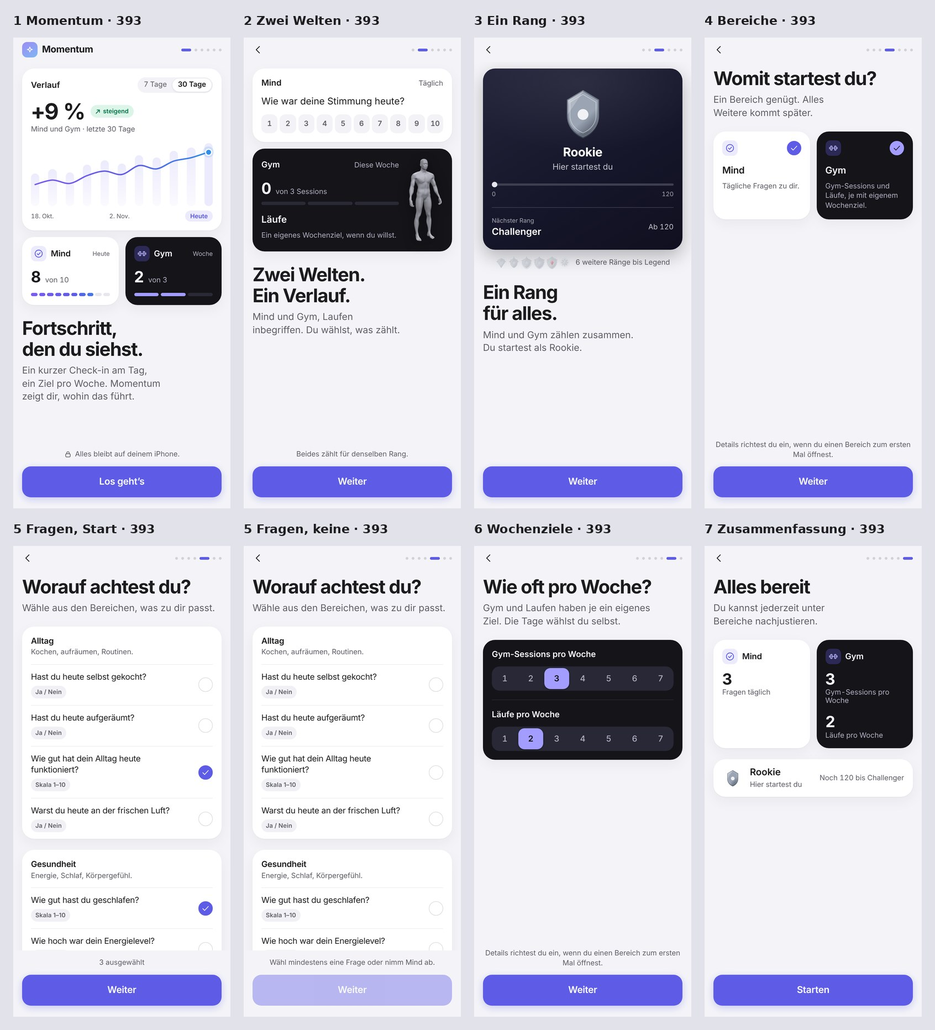
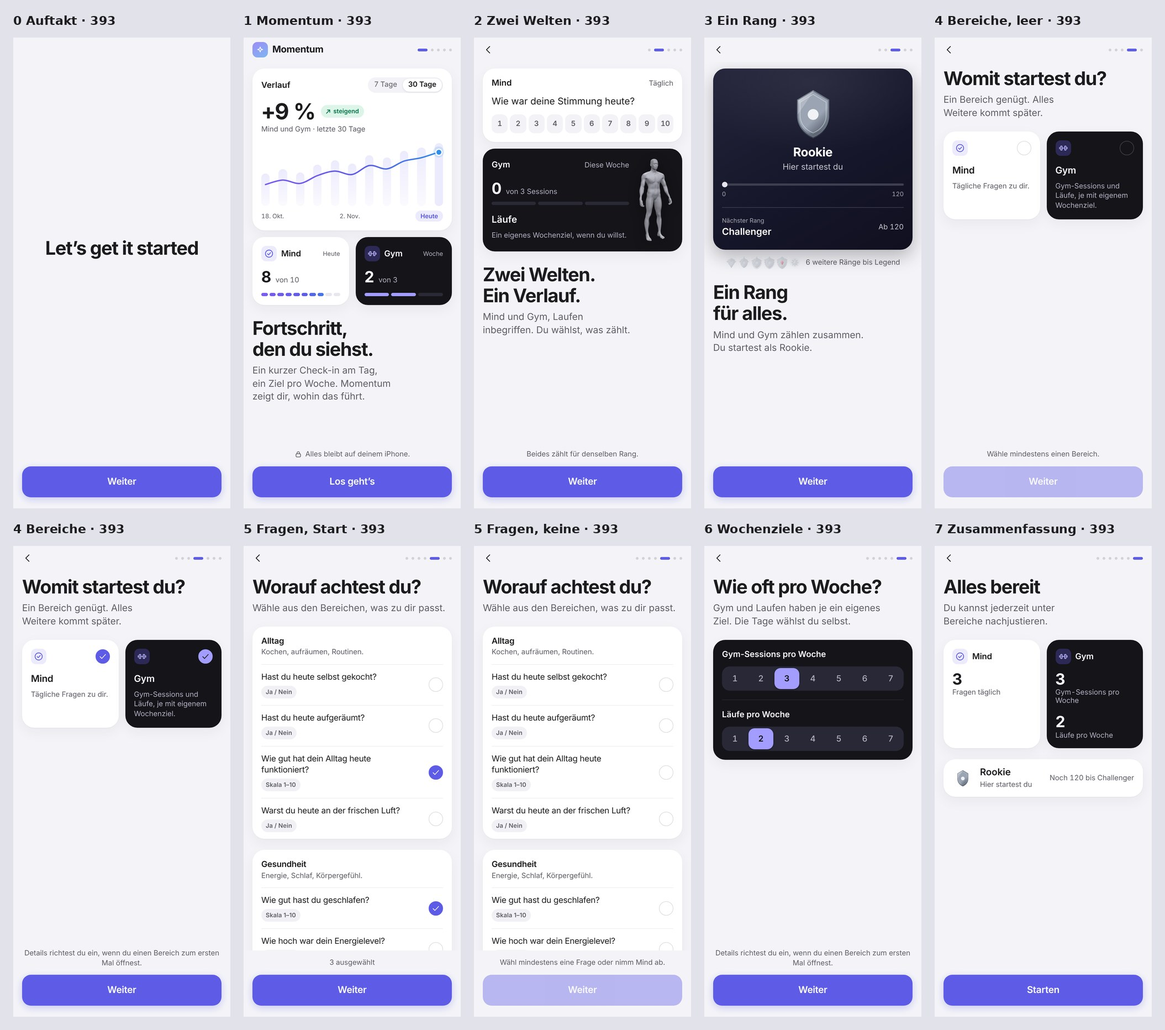
D192: STOP 7E-b accepted - the opening page and the empty areas in the records, the owner's iPhone measurements for block 9, the pictures
Claude-Session: https://claude.ai/code/session_01DdLuA7BvNfz9LeqrqZhkGQ

diff --git a/HANDOVER.md b/HANDOVER.md
@@ -2,7 +2,7 @@
 
 Current state, status and next work. Durable rules are in
 [`CLAUDE.md`](CLAUDE.md); the reasoning behind individual choices is in
-[`docs/decisions.md`](docs/decisions.md) (D1–D191). This file does not repeat
+[`docs/decisions.md`](docs/decisions.md) (D1–D192). This file does not repeat
 either — it says where things stand.
 
 ## Repository state
@@ -11,7 +11,7 @@ either — it says where things stand.
 |---|---|
 | Branch | `claude/momentum-pwa-spec-j82dhm` — the default branch, which is the only one Pages deploys from. Pass 2, the domain terminal and the muscle map were developed on `claude/momentum-pass-2-geometry-r2qzkd`; the muscle-map release candidate `bc57ec6` was merged here with a merge commit (`90bf328`) because the default branch carried a later upload. The release is tagged **`muscle-map-v1`** |
 | Overall-rank update | On `claude/momentum-overall-rank-update-v2`. **Stage 1** (D123): one `--status-*` palette in `tokens.css`, both scales on four bands, muscle-map states on the same colours. **Stage 2** (D124, D125): the Boss is the only rank — domain ranks, badges, promotion messages, peak ranks and per-domain XP are gone from the engine and the screens; abstinence decay measures in an internal held tier; the rating engine's outputs are frozen in `.github/fixtures/stage2/` and replay byte-identical. **Stage 3**: Tombstones verified dormant and pinned by `tombstones.test.ts`; no production change. **Stage 4** (D126): a Boss promotion is confirmed over seven eligible past days; the era boundary is `settings.promotionConfirmation.from` — set at settings creation for a new install (today, Rookie opening) and by the ensure step for a legacy record (the day after activation), never moved; the pending dates are persisted and reconciled from every replay; the activation continuity fixture is `.github/fixtures/stage4/activation.json`. **Stage 5**: verification pass; the distance caption reads "Schwelle erreicht" while a rank waits to be confirmed; indicator states pinned on the real screens by `scripts/verify/stage4-shots.mjs` with screenshots under `docs/design/overall-rank/`. Release audit in the Stage 5 report. **Not merged, not deployed** |
-| WP3 (Mind & Gym) | On `claude/momentum-wp3`, branched from `e30becd`, staged. **Stage 0**: the golden replay baseline `.github/fixtures/wp3-golden/` (six files, compared exactly by `domainOutputs.test.ts`). **Stage 1**: bug fixes B1–B6 and B9–B12 with no scoring change — every fingerprint and golden file byte-identical to Stage 0; D127 recorded. **Stage 2**: the workout flow — free workouts as drafts (B7, D128), removal with undo (B8, D131), the running workout on Heute and `finishedAt` (D129), kg \| lb (D130); no scoring change, every fingerprint and golden file byte-identical. **Stage 3a**: the edit-window gate (`docs/design/wp3/stage3a-window.md`). **Stage 3b**: one day back (P8) as an era — one write rule for today and yesterday, a week judged when it is over, abstinence carried while it can be written, D126 on settled days, Heute \| Gestern (D132–D138); every pre-P8 value byte-identical, the P8 golden files re-frozen deliberately. **Stage 4**: Mind and Gym — Food off as an era from the first load (D139), its data kept and nothing creating it (D140), the update day's yesterday (D141), the check-in delete refusing a Gym session (D142), one name, Mind, and the terminal Mind \| Gym (D143), Gestern's wording for the standard questions (D144); every value before the switch-off byte-identical, the Food-off golden files unchanged. **Stage 6a**: the visual system (P11) as two design variants — two token sets, Mind light and Gym dark, declared by the screen and carried on `<html>` (D145); glass cards and sheets with solid fallbacks, nothing blurred over the 3D canvas (D146); text over glass measured on the rendered pixels (D147); the owner chose variant B at STOP 6a (D148). **Stage 6b**: B is the one design system and the visual contract `docs/wp3/vertrag.md` (D160) is applied to every existing screen — colour with three jobs, the type and figure steps, one 16px margin, one order of buttons, the chart rules, layers and motion as tokens, calm loading surfaces — with its rules held by tests (`designRules.test.ts`, `contrast.test.ts`, `design-system.mjs`); nothing computed moved, `src/core/`, `src/storage/`, every fingerprint and golden file untouched (D162). **The colour rules of the muscle status** (contract §7, D164) and **block 7A** — the body is a new model, built by script from MakeHuman's base mesh, with straight cuts round an inert zone that has a tone of its own, and a light that is tokens without a tone mapping (D165, D166) — are built and **accepted by the owner on his iPhone on 2026-11-13**, from the `Momentum-preview` build `0414126`. **His addendum to that acceptance** (D167) — the weakest tint 0.3, the chest's lower edge level, the borders at the knee, the collarbone and the shoulder as lines the build cuts — is built, published as `Momentum-preview` `c80b61d` and **accepted by the owner on his iPhone on 2026-11-15**, the straight edge of the shoulder included; the elbow and the deltoid's lower edge stay as they are. **Stage 5b** (D150, D151, D172–D174): from the first load a Gym exercise-day is worth its best working set by a strength score, as an era marked by `scoring.gymMetric`; a window compares the median of an exercise's last days with the median of its first, behind a switch the owner confirms; a set can be marked as a warm-up by hand; every day before the boundary replays byte-identically, no golden file frozen again, sixteen new ones for two new profiles — **accepted by the owner on his iPhone on 2026-11-15** from the `Momentum-preview` build `7e0572f` (D175): the median stands, the exercise detail draws a line where it drew bars, and a hint under the sets says where the warm-up mark is until a set has been marked once. **Block "Kurve"** (D177–D179): in the Stage 5b era the performance curve's one value is Gym's own — every three points of improvement multiply the odds by four, where the constants say ten — carried in `scoring.gymMetric.curveDecadePercent` beside the metric and read from each day's snapshot; a marker without it, which only a Stage 5b preview wrote, is the curve as it was; no day before the boundary and no day of Running moved; and a tint on the body is full from 8 % where it was 12 %. **Accepted by the owner on his iPhone on 2026-11-15** from the `Momentum-preview` build `28e8ca0` (D180), with his four answers built in the same session: the value three stands (`GYM_CURVE_CONFIRMED` is `true`), the tint stays full from 8 %, the rows and the exercise detail are drawn on a scale of 8 % where it was 12 %, and the held band is one-sided — −2 to +1 % held, a rise from +2 %, a fall from −3 % — with the legend saying why; published as `Momentum-preview` `ae10d3d`. **Block 7B** (D181–D183): Muskelgruppen is the body's stage — no card, 55 % of the visible height, a metrics strip above it — operated by time and by rule: a tap never turns the body and reaches a group from twelve pixels beside it, two fingers zoom to 1.8, a double tap and a button reset, a sheet stands over a still body, a lost context ends with the body or the flat figure, and Heute's Gym label leads straight to it; with a measuring display the owner switches on in the settings. **Accepted by the owner on his iPhone on 2026-11-16** from the `Momentum-preview` build `275cfbc` (D184), without findings and with his five answers, each as built: the measuring display stays in the release, the strip's third cell prints the change with the group beneath, "Stärkster" says "–" where no group improved, a drag up or down on the body scrolls the page, and the 55 % are the stage. His three copies of the measuring display are the first measured values from an iPhone (15 Pro, iOS 26.3.1): 193 ms from opening Muskelgruppen to the first picture out of the cache, sixty frames a second while turning with every one of 154 measured frames under 25 ms, twelve draw calls, 50,488 triangles. **Block 7C** (D185, D186): a tap on a muscle or on a row opens the group's sheet — two heights and a finger, a Back that closes it without a place in the address, the body above it showing the group and nothing drawn under it — with the group's line, its exercises each with one change (D176) and the work volume per week, shown and never scored (D152); the card on the hub holds its place while it loads (D168) and all lines of the ten rows stand in one column (D169). **Accepted by the owner on his iPhone on 2026-11-16** from the `Momentum-preview` build `387bfc9` (D187), except the Dips: their line ended green under the zero line beside "+5 %". With his answers and his correction, built in the same session and published as `Momentum-preview` `7f859f3`: every line begins on the baseline of its first day (D170), an exercise states one change (D176), and **an exercise's line is that change day by day** — each point the change in the range up to its day — so it ends on the figure; Back for every sheet goes to the tidy-up, on the condition that a sheet with fields loses nothing typed. From STOP 7C the session runs on another model than D159 names, at his instruction (D187). **Block 7D** (D188): the catalogue holds 134 exercises where it held 49 — the last, the Bayesian cable curl, added at his request after the STOP — at least ten for every group by its primary role, every entry with its equipment and its movement — and the picker searches all of it, in the workout and in the plan editor, by name, detail, group with everyday words, movement and equipment; the 49 entries, every stored record and everything that computes or stores unchanged. **Accepted by the owner on 2026-11-17** (D189), with his answers each as built and Preacher-Curls also found as «Bizepsmaschine» and «Scott-Curls»; published as `Momentum-preview` `4063e82`. **7E runs in a session of its own** on `claude/hopeful-carson-4utktp`, from `adf1ead`, and is merged into this branch before block 9; then 9 and the tidy-up (D189). **Block 7E** (D190, D191), the onboarding's look in direction C, runs in a session of its own on `claude/hopeful-carson-4utktp`, from 7D's head `adf1ead` with `3e153fa` merged in: the owner's go and answers at STOP 7E-a2 built — the system font in place of DM Sans, three starter questions with «Weiter» held while Mind has none, the tests for every path, the flow replayable in the preview — and **waiting for him at STOP 7E-b**; merged into `claude/momentum-wp3` after his acceptance, before block 9. **Not merged, not deployed** |
+| WP3 (Mind & Gym) | On `claude/momentum-wp3`, branched from `e30becd`, staged. **Stage 0**: the golden replay baseline `.github/fixtures/wp3-golden/` (six files, compared exactly by `domainOutputs.test.ts`). **Stage 1**: bug fixes B1–B6 and B9–B12 with no scoring change — every fingerprint and golden file byte-identical to Stage 0; D127 recorded. **Stage 2**: the workout flow — free workouts as drafts (B7, D128), removal with undo (B8, D131), the running workout on Heute and `finishedAt` (D129), kg \| lb (D130); no scoring change, every fingerprint and golden file byte-identical. **Stage 3a**: the edit-window gate (`docs/design/wp3/stage3a-window.md`). **Stage 3b**: one day back (P8) as an era — one write rule for today and yesterday, a week judged when it is over, abstinence carried while it can be written, D126 on settled days, Heute \| Gestern (D132–D138); every pre-P8 value byte-identical, the P8 golden files re-frozen deliberately. **Stage 4**: Mind and Gym — Food off as an era from the first load (D139), its data kept and nothing creating it (D140), the update day's yesterday (D141), the check-in delete refusing a Gym session (D142), one name, Mind, and the terminal Mind \| Gym (D143), Gestern's wording for the standard questions (D144); every value before the switch-off byte-identical, the Food-off golden files unchanged. **Stage 6a**: the visual system (P11) as two design variants — two token sets, Mind light and Gym dark, declared by the screen and carried on `<html>` (D145); glass cards and sheets with solid fallbacks, nothing blurred over the 3D canvas (D146); text over glass measured on the rendered pixels (D147); the owner chose variant B at STOP 6a (D148). **Stage 6b**: B is the one design system and the visual contract `docs/wp3/vertrag.md` (D160) is applied to every existing screen — colour with three jobs, the type and figure steps, one 16px margin, one order of buttons, the chart rules, layers and motion as tokens, calm loading surfaces — with its rules held by tests (`designRules.test.ts`, `contrast.test.ts`, `design-system.mjs`); nothing computed moved, `src/core/`, `src/storage/`, every fingerprint and golden file untouched (D162). **The colour rules of the muscle status** (contract §7, D164) and **block 7A** — the body is a new model, built by script from MakeHuman's base mesh, with straight cuts round an inert zone that has a tone of its own, and a light that is tokens without a tone mapping (D165, D166) — are built and **accepted by the owner on his iPhone on 2026-11-13**, from the `Momentum-preview` build `0414126`. **His addendum to that acceptance** (D167) — the weakest tint 0.3, the chest's lower edge level, the borders at the knee, the collarbone and the shoulder as lines the build cuts — is built, published as `Momentum-preview` `c80b61d` and **accepted by the owner on his iPhone on 2026-11-15**, the straight edge of the shoulder included; the elbow and the deltoid's lower edge stay as they are. **Stage 5b** (D150, D151, D172–D174): from the first load a Gym exercise-day is worth its best working set by a strength score, as an era marked by `scoring.gymMetric`; a window compares the median of an exercise's last days with the median of its first, behind a switch the owner confirms; a set can be marked as a warm-up by hand; every day before the boundary replays byte-identically, no golden file frozen again, sixteen new ones for two new profiles — **accepted by the owner on his iPhone on 2026-11-15** from the `Momentum-preview` build `7e0572f` (D175): the median stands, the exercise detail draws a line where it drew bars, and a hint under the sets says where the warm-up mark is until a set has been marked once. **Block "Kurve"** (D177–D179): in the Stage 5b era the performance curve's one value is Gym's own — every three points of improvement multiply the odds by four, where the constants say ten — carried in `scoring.gymMetric.curveDecadePercent` beside the metric and read from each day's snapshot; a marker without it, which only a Stage 5b preview wrote, is the curve as it was; no day before the boundary and no day of Running moved; and a tint on the body is full from 8 % where it was 12 %. **Accepted by the owner on his iPhone on 2026-11-15** from the `Momentum-preview` build `28e8ca0` (D180), with his four answers built in the same session: the value three stands (`GYM_CURVE_CONFIRMED` is `true`), the tint stays full from 8 %, the rows and the exercise detail are drawn on a scale of 8 % where it was 12 %, and the held band is one-sided — −2 to +1 % held, a rise from +2 %, a fall from −3 % — with the legend saying why; published as `Momentum-preview` `ae10d3d`. **Block 7B** (D181–D183): Muskelgruppen is the body's stage — no card, 55 % of the visible height, a metrics strip above it — operated by time and by rule: a tap never turns the body and reaches a group from twelve pixels beside it, two fingers zoom to 1.8, a double tap and a button reset, a sheet stands over a still body, a lost context ends with the body or the flat figure, and Heute's Gym label leads straight to it; with a measuring display the owner switches on in the settings. **Accepted by the owner on his iPhone on 2026-11-16** from the `Momentum-preview` build `275cfbc` (D184), without findings and with his five answers, each as built: the measuring display stays in the release, the strip's third cell prints the change with the group beneath, "Stärkster" says "–" where no group improved, a drag up or down on the body scrolls the page, and the 55 % are the stage. His three copies of the measuring display are the first measured values from an iPhone (15 Pro, iOS 26.3.1): 193 ms from opening Muskelgruppen to the first picture out of the cache, sixty frames a second while turning with every one of 154 measured frames under 25 ms, twelve draw calls, 50,488 triangles. **Block 7C** (D185, D186): a tap on a muscle or on a row opens the group's sheet — two heights and a finger, a Back that closes it without a place in the address, the body above it showing the group and nothing drawn under it — with the group's line, its exercises each with one change (D176) and the work volume per week, shown and never scored (D152); the card on the hub holds its place while it loads (D168) and all lines of the ten rows stand in one column (D169). **Accepted by the owner on his iPhone on 2026-11-16** from the `Momentum-preview` build `387bfc9` (D187), except the Dips: their line ended green under the zero line beside "+5 %". With his answers and his correction, built in the same session and published as `Momentum-preview` `7f859f3`: every line begins on the baseline of its first day (D170), an exercise states one change (D176), and **an exercise's line is that change day by day** — each point the change in the range up to its day — so it ends on the figure; Back for every sheet goes to the tidy-up, on the condition that a sheet with fields loses nothing typed. From STOP 7C the session runs on another model than D159 names, at his instruction (D187). **Block 7D** (D188): the catalogue holds 134 exercises where it held 49 — the last, the Bayesian cable curl, added at his request after the STOP — at least ten for every group by its primary role, every entry with its equipment and its movement — and the picker searches all of it, in the workout and in the plan editor, by name, detail, group with everyday words, movement and equipment; the 49 entries, every stored record and everything that computes or stores unchanged. **Accepted by the owner on 2026-11-17** (D189), with his answers each as built and Preacher-Curls also found as «Bizepsmaschine» and «Scott-Curls»; published as `Momentum-preview` `4063e82`. **7E runs in a session of its own** on `claude/hopeful-carson-4utktp`, from `adf1ead`, and is merged into this branch before block 9; then 9 and the tidy-up (D189). **Block 7E** (D190–D192), the onboarding's look in direction C, ran in a session of its own on `claude/hopeful-carson-4utktp`: the flat ground and the first slide's picture of «C1», the system font (DM Sans came and went), three starter questions with «Weiter» held while Mind has none, an opening page «Let’s get it started», the areas opening empty, the tests for every path and the flow replayable in the preview. **Accepted by the owner on 2026-11-17** (D192) — the opening page and the empty areas without a STOP of their own, to be checked in the round of block 9 — and **merged into this branch**; published as `Momentum-preview` (see the block's section). **Not merged, not deployed** |
 | Muscle map | **Released.** The 3D body in Bereiche → Gym, the ten analytics rows with their mini sparklines, Laufen inside the Gym workspace, the credits entry. App source `5e554aa`; QA record `docs/design/muscle-map/INTEGRATION-QA.md`; handoff deviations `docs/design/muscle-map/HANDOFF-DEVIATIONS.md` |
 | Working tree | clean at the commit this file was committed in |
 | `SCHEMA_VERSION` | **5** (`src/core/model/index.ts`) — v5 adds the `foodDays` store |
@@ -1952,6 +1952,17 @@ the `Momentum-preview` build `275cfbc` — D181, D182, D183, D184)
   Verbesserung"; a drag that begins up or down on the body scrolls the
   page; and the 55 % are the stage, the body filling 84 % of it. The
   contract says each of them now (§4, §8, §13).
+- **The owner's measurements of 17 November 2026** (D192), the second
+  opening, from the build `index-B1RXpspr` (the preview `8a5df95`, block
+  7E): to the first picture **161 ms** — the code 2 ms and the model
+  124 ms, both already loaded, the first picture 35 ms; 12 draw calls,
+  50,488 triangles, one texture of 768 × 1024; pixel ratio 2 of 3,
+  drawing buffer 786 × 872, "Apple GPU"; iPhone 15 Pro, iOS 26.3.1 (the
+  browser says 18.7), the app from the home screen; screen 393 × 852,
+  visible 393 × 793, the stage 393 × 436 (55 %); about 63 frames a second
+  observed. Against block 7B's copies: 161 ms where 193 ms stood, the same
+  scene, the same stage. **For block 9** these and 7B's are the device's
+  baseline (`prompt-9-haertung.md`, section 3).
 - **The owner's measurements** — the first from an iPhone in this project,
   three copies of the measuring display from the build `index-DQBEJ-V9`
   (the preview `275cfbc`) on 2026-11-16. Device: **iPhone 15 Pro, iOS
@@ -2362,9 +2373,9 @@ is its change day by day** (branch `claude/momentum-wp3`, not merged; D187)
 
 **WP3 block 7E — the onboarding in direction C** (branch
 `claude/hopeful-carson-4utktp`, from block 7D's head `adf1ead`, with
-`claude/momentum-wp3` at `3e153fa` merged in; not yet merged back; **the
-owner's answers at STOP 7E-a2 are built and wait for him at STOP 7E-b** —
-D190, D191, `docs/wp3/stage7e/README.md`)
+`claude/momentum-wp3` at `3e153fa` merged in; **the
+owner accepted it at STOP 7E-b on 2026-11-17, and it is merged into
+`claude/momentum-wp3`** — D190–D192, `docs/wp3/stage7e/README.md`)
 - **What changed.** How the seven steps look: a flat ground, solid white
   cards, the app's system font (DM Sans came and went, D191), and at most
   one dark surface a screen — Gym or the rank. The first slide is the
@@ -2391,7 +2402,11 @@ D190, D191, `docs/wp3/stage7e/README.md`)
   file. A step shows only what the flow holds: Laufen opens without a
   target and says so, and the summary has a Mind tile only with a
   question.
-- **Tests**: `OnboardingFlow.test.tsx` walks every path (22 tests);
+- **After the acceptance** (D192): an opening page before the first slide —
+  «Let’s get it started» and «Weiter», no step and no marks — and the areas
+  open with nothing chosen, «Weiter» waiting for a world. No STOP of their
+  own: the owner checks them in the round of block 9.
+- **Tests**: `OnboardingFlow.test.tsx` walks every path (27 tests);
   `onboarding-7e.mjs` walks four paths at four widths in the real build,
   reads back what each stored, holds every step to the screen, 44px
   targets, one dark surface and the chart's fit, and proves the rehearsal
@@ -2895,11 +2910,12 @@ Re-run browser suites with `scripts/verify/*.mjs` (see that README; needs
 
 ## Next work
 
-**WP3 block 7E waits for the owner at STOP 7E-b** (D191), on
-`claude/hopeful-carson-4utktp`: he checks the onboarding on the preview —
-a new device, and «Einführung ansehen» on one that holds his data — and
-after his acceptance the branch is merged into `claude/momentum-wp3`, so
-block 9 checks one state.
+**WP3 block 7E is accepted and merged** (D192): `claude/hopeful-carson-4utktp`
+is merged into `claude/momentum-wp3`, so block 9 checks one state. **In the
+round of block 9 the owner checks two adjustments of 7E** that had no STOP
+of their own: the opening page «Let’s get it started» before the first
+slide, and «Womit startest du?» opening with nothing chosen, «Weiter»
+waiting for a world.
 
 **WP3: block 7D is accepted** (2026-11-17, D189), after block 7C was
 accepted and closed in the same session (D187). The order from here is

diff --git a/scripts/verify/README.md b/scripts/verify/README.md
@@ -86,8 +86,8 @@ points them all at another one. Never run `npx playwright install`.
 | `stage7c-check-files.mjs` | **Not a suite: the import files of the check at STOP 7C, and their proof** (`docs/wp3/stage7c/`). The diary of the earlier STOPs has every group rated and improved and would show one of the sheet's five states; so for each day in `DAYS` the device of `muscle-sheet.mjs` and of the pictures is seeded on a clock that reads that morning in Zurich, and the build exports it through its own "Backup exportieren". An empty device on the same day then imports the file through "Backup importieren" and must show the same ten rows and strip, and in seven sheets what the file is made for — otherwise the script throws. **Its rows are written into the database by the script, not typed through the interface**, and the README beside the files says so. `DAYS=2026-11-16,2026-11-17 OUT=docs/wp3/stage7c` |
 | `exercise-search.mjs` | **The exercise catalogue and its search (block 7D, D171, D188).** What each of the owner's four words must find is read from `catalogue.ts` at run time, not from the search: «bauch» every exercise whose primary group is the core, «zieh» every one that names the pulling movement, «maschine» every one on a machine, «eigengewicht» every one loaded by body weight — and the search is held to that list exactly, no row missing, none more; every row says why it was found. Case and the spellings of an umlaut make no difference («RÜCKEN», «ruecken», «rucken»); two words narrow («kabel brust»); the stored English name still finds its exercise first («Bench Press» → Bankdrücken); a word nobody knows says what was searched and makes «Eigene Übung» the primary action, which opens with the word as its name. Without a query every offered exercise stands exactly once, under one heading per group in the app's order. A found exercise is picked into the workout and into a plan, saved by its id. The English screen finds «abs», «pull», «machine» and «bodyweight» with English headings. At 320, 360, 393 and 430 nothing is cut off, nothing scrolls sideways and every row is a 44px target. `WIDTHS=393` |
 | `stage7d-shots.mjs` | **Not a suite: the pictures of block 7D** (`docs/design/wp3/stage7d/`). The picker in a workout at 320, 360, 393 and 430: without a query, at the top and at the core's heading; with «bauch», «zieh», «maschine», «eigengewicht», «kabel brust» and a word nothing answers; the own exercise opened from the empty search. Once in English («abs», and without a query), once from the plan editor («bauch»). `OUT=<dir> WIDTHS=393` |
-| `stage7e-shots.mjs` | **Not a suite: the pictures of block 7E** (`docs/design/wp3/stage7e/` at STOP 7E-a2, `docs/design/wp3/stage7e-b/` since). A new device walks the onboarding by its own buttons, both worlds chosen, three questions, three gym sessions and two runs: every step at 393, the first slide and the weekly targets at 320 and 430 (`ALL=1` every step at every width), the question step as it opens and with none chosen, and — given `URL_PREVIEW` — the preview's row «Einführung ansehen». It prints for each step whether the page runs wider than the screen, how far the step scrolls, and the face its title is set in. `OUT=<dir> WIDTHS=… LANGUAGE=en URL_PREVIEW=<url>` |
-| `onboarding-7e.mjs` | **Block 7E: the onboarding, every way through it** (D190, D191). Against the production preview at 320, 360, 393 and 430: Mind alone, as it opens — the three starter questions, one per category, reach storage; Gym alone at five sessions and two runs, without a question step; Mind and Gym with every starter taken off — «Weiter» waits and says «Wähl mindestens eine Frage oder nimm Mind ab.» — then one question of the library and one of the user's own; Mind taken off from the question step. Each path's domains, targets and questions are read back from the database. Every step of every path: no wider than the screen, nothing cut sideways, every control a 44px target (the seven target cells aside, D163), at most one dark surface and it Gym or the rank, the hero one picture with nothing to operate. The live build has no rehearsal. **And the rehearsal on a preview build** (`URL_PREVIEW`, a build with `VITE_MOMENTUM_DB=momentum-preview` served on 4174): every store of the preview's database read before and after a rehearsal walked to its end with other choices, one left by Back and one by a reload — byte for byte the same each time, and the live app's database never opened. |
+| `stage7e-shots.mjs` | **Not a suite: the pictures of block 7E** (`docs/design/wp3/stage7e/` at STOP 7E-a2, `docs/design/wp3/stage7e-b/` since). A new device walks the onboarding by its own buttons, both worlds chosen, three questions, three gym sessions and two runs: every step at 393, the first slide and the weekly targets at 320 and 430 (`ALL=1` every step at every width), the opening page and the areas as they open (since D192), the question step as it opens and with none chosen, and — given `URL_PREVIEW` — the preview's row «Einführung ansehen». It prints for each step whether the page runs wider than the screen, how far the step scrolls, and the face its title is set in. `OUT=<dir> WIDTHS=… LANGUAGE=en URL_PREVIEW=<url>` |
+| `onboarding-7e.mjs` | **Block 7E: the onboarding, every way through it** (D190, D191). Against the production preview at 320, 360, 393 and 430: the opening page — one line and «Weiter», no marks — and the areas opening with nothing chosen, «Weiter» held (D192); Mind alone — the three starter questions, one per category, reach storage; Gym alone at five sessions and two runs, without a question step; Mind and Gym with every starter taken off — «Weiter» waits and says «Wähl mindestens eine Frage oder nimm Mind ab.» — then one question of the library and one of the user's own; Mind taken off from the question step. Each path's domains, targets and questions are read back from the database. Every step of every path: no wider than the screen, nothing cut sideways, every control a 44px target (the seven target cells aside, D163), at most one dark surface and it Gym or the rank, the hero one picture with nothing to operate. The live build has no rehearsal. **And the rehearsal on a preview build** (`URL_PREVIEW`, a build with `VITE_MOMENTUM_DB=momentum-preview` served on 4174): every store of the preview's database read before and after a rehearsal walked to its end with other choices, one left by Back and one by a reload — byte for byte the same each time, and the live app's database never opened. |
 | `stage7d-check-files.mjs` | **Not a suite: the import files of the check at STOP 7D, and their proof** (`docs/wp3/stage7d/`). Made by the live build (`LIVE_URL`, the default branch with its own catalogue): for each day in `DAYS` it imports the diary of STOP 7B for that day, makes a plan of Bankdrücken, Latzug and an exercise of the user's own through its interface, and exports it through "Backup exportieren". The build before the block (`BEFORE_URL`) and the build under test (`URL_APP`) then import the file on an empty device and must show the same Gym rating, rows, strip and plan; the build under test must offer every exercise of its catalogue and the user's own, keep every stored exercise byte for byte, and find the user's own by its name — otherwise the script throws. `LIVE_URL=… BEFORE_URL=… URL_APP=… DAYS=2026-11-17,2026-11-18 OUT=docs/wp3/stage7d` |
 
 Two things worth knowing before writing another suite, both of which produced
@@ -361,6 +361,25 @@ or weakened.
   two, as before.
 - **`phase2.mjs`**, the question of the user's own. *Old:* it is the only
   question stored. *New:* the same, after the starters are taken off.
+
+## Checks restated after STOP 7E-b (D192)
+
+The onboarding begins on an opening page, and its areas open with nothing
+chosen. No check was removed or weakened.
+
+- **Every walk of the new build** (`lib.mjs` `onboard()`, `phase2.mjs`,
+  `design-system.mjs`, `wp3-stage4.mjs`, `onboarding-7e.mjs`,
+  `stage7e-shots.mjs`). *Old:* the first screen is the first slide, and
+  Mind is chosen on the areas. *New:* `passOpening()` passes the opening
+  page first, and Mind is chosen by a tap where it was chosen for the
+  walk; `onboard()` taps Mind when `wellbeing` is on, where it took Mind
+  off when it was off.
+- **`phase2.mjs`**, «cannot continue with nothing switched on». *Old:*
+  Mind is taken off, and «Weiter» waits. *New:* nothing is chosen as the
+  areas open, and «Weiter» waits — the same words beneath it.
+- **`release.mjs`**, the cold load and the reload. *Old:* the first
+  screen's «Los geht’s» is there, and after a reload it is not. *New:*
+  the onboarding is there, and after a reload it is not.
 
 ## Conventions
 

diff --git a/docs/decisions.md b/docs/decisions.md
@@ -6562,3 +6562,72 @@ into `claude/hopeful-carson-4utktp` with a merge commit; the conflicts
 were the two documents both had appended to — `docs/decisions.md` (the
 D188 addendum and D189 before D190) and `HANDOVER.md`. **This is D191**,
 the next free number after D190.
+
+## D192 — STOP 7E-b: accepted; an opening page before the first slide, the areas open empty, and block 7E merged into claude/momentum-wp3
+
+**Decision (owner, 2026-11-17).** His words: "STOP 7E-b: abgenommen, mit
+zwei kleinen Anpassungen: 1. Neue erste Seite vor Slide 1: sehr leer, in
+der Mitte nur «Let's get it started», darunter der gewohnte Knopf zum
+Weitergehen. Sie zählt in der Fortschrittsanzeige nicht als Slide. Danach
+geht es weiter wie jetzt. 2. «Womit startest du?»: Standardmässig ist
+nichts ausgewählt. «Weiter» bleibt gesperrt, bis eine Welt gewählt ist.
+Dafür kein eigener STOP mehr: Tests, neue Vorschau, dann
+claude/hopeful-carson-4utktp in claude/momentum-wp3 zusammenführen und
+pushen. Die zwei Anpassungen prüfe ich in der Runde von Block 9 mit." And
+his measurements from the iPhone, for `HANDOVER.md` and block 9 (below).
+
+**Block 7E is accepted** with both adjustments, which have no STOP of
+their own: the owner checks them in the round of block 9.
+
+### The two adjustments, as built
+
+- **The opening page.** Before the first slide stands a page with one line
+  in its middle, «Let’s get it started» — the owner's words, the same in
+  both languages, with the typographic apostrophe of «Los geht’s» — and
+  «Weiter» beneath it, where the button stands on every step: "der
+  gewohnte Knopf zum Weitergehen", read as the button that goes on, not as
+  the first slide's «Los geht’s», so that the first slide stays as it was.
+  The page is not a step: no marks, no brand, no way back; the first slide
+  is still step one of the marks, and has no way back to the page.
+  `data-step="opening"`. A rehearsal in the preview begins on it too.
+- **The areas open empty.** «Womit startest du?» has nothing chosen;
+  «Weiter» waits, and the line beneath says "Wähle mindestens einen
+  Bereich." — the words it always had when nothing was chosen — until a
+  world is. Until then the marks count the five steps every path has.
+  Choosing Mind still opens its question step with the three starter
+  questions (D191).
+
+### Tests
+
+`OnboardingFlow.test.tsx` (27 tests): the opening page — one line, one
+button, no marks, no way back, the same line in English — the first slide
+still step one of five, the areas empty with «Weiter» held and its line,
+and a world chosen and taken off again; the earlier tests walk the same
+paths as before with Mind chosen by hand. `onboarding-7e.mjs` checks the
+opening page and the empty areas at four widths and begins the rehearsal
+on the opening page. **Restated, nothing removed or weakened:** every walk
+of the new build passes the opening page (`passOpening` in `lib.mjs`) and
+chooses Mind where it used to be chosen for it (`onboard()` with
+`wellbeing`, `phase2.mjs`, `design-system.mjs`, `wp3-stage4.mjs`,
+`stage7e-shots.mjs`); `release.mjs` finds the onboarding by its element
+where it looked for «Los geht’s» on the first screen; `phase2.mjs` checks
+that nothing is chosen where it used to take Mind off.
+
+### The owner's measurements (17 November 2026, the second opening)
+
+From the measuring display on his iPhone, build `index-B1RXpspr` (the
+preview `8a5df95`): to the first picture 161 ms — code 2 ms and model
+124 ms, both already loaded, the first picture 35 ms; 12 draw calls,
+50,488 triangles, one texture of 768 × 1024, pixel ratio 2 of 3, drawing
+buffer 786 × 872, "Apple GPU"; iPhone 15 Pro, iOS 26.3.1 (the browser
+says 18.7), the app from the home screen, screen 393 × 852, visible
+393 × 793, the body's stage 393 × 436 (55 %), about 63 frames a second
+observed. Recorded in `HANDOVER.md` beside those of block 7B, as block 9's
+baseline from the device.
+
+### The merge
+
+`claude/hopeful-carson-4utktp` is merged into `claude/momentum-wp3` with a
+merge commit and pushed, so block 9 checks one state (D189). `claude/
+momentum-wp3` had not moved since `3e153fa`, which the block's branch
+already holds.

diff --git a/docs/wp3/vertrag.md b/docs/wp3/vertrag.md
@@ -335,7 +335,7 @@ Gebaut in Block 7C (D185, D186). Was dort entschieden wurde, steht bei jedem Pun
 
 ## §16 Onboarding-Ausnahmen
 
-Festgelegt am STOP 7E-a (16.11.2026, D190), angepasst am STOP 7E-a2 (17.11.2026, D191). **Dieser Abschnitt gilt nur im Onboarding** – in den Schritten, die eine neue Installation vor dem ersten Screen der App zeigt (`src/features/onboarding/`). Für jeden Screen der App gelten §1 bis §15 unverändert; nichts aus diesem Abschnitt darf dort stehen.
+Festgelegt am STOP 7E-a (16.11.2026, D190), angepasst am STOP 7E-a2 und am STOP 7E-b (17.11.2026, D191, D192). **Dieser Abschnitt gilt nur im Onboarding** – in den Schritten, die eine neue Installation vor dem ersten Screen der App zeigt (`src/features/onboarding/`). Für jeden Screen der App gelten §1 bis §15 unverändert; nichts aus diesem Abschnitt darf dort stehen.
 
 Massgebend für den Look ist der Entwurf «C1 · Momentum, referenznah» (Richtung C am STOP 7E-a). Er zeigt den Look der ersten Slide, nicht den Inhalt der übrigen Schritte.
 
@@ -356,6 +356,10 @@ Massgebend für den Look ist der Entwurf «C1 · Momentum, referenznah» (Richtu
 **Auswahl.** Eine gewählte Kachel oder Zeile trägt ein gefülltes Häkchen im Akzent (`SelectionMark`), nie einen dicken Rahmen. Die sieben Werte eines Wochenziels stehen als eine Segmentzeile 1–7 statt als sieben Kreise; die Trefferfläche jeder Zelle bleibt 44 px hoch und ihr Anteil der Zeile breit (§12, D163).
 
 **Kurze Bildschirme.** Die drei Slides rücken unter 720 px Höhe enger zusammen, und das Diagramm im Hero gibt die Höhe ab, die der Slide fehlt (bis 64 px), bevor sie scrollt. Wie viel fehlt, wird gemessen und nicht angenommen: Wie viele Zeilen ein Satz braucht, entscheidet die Systemschrift, und sie ist von Telefon zu Telefon eine andere. Ein Schritt, der dann noch nicht passt, scrollt; die Hauptschaltfläche bleibt stehen.
+
+**Die Auftaktseite** (D192). Vor der ersten Slide steht eine sehr leere Seite: in der Mitte nur «Let’s get it started» in der Grösse eines Titels, darunter «Weiter» an der Stelle der Hauptschaltfläche. Sie ist kein Schritt: keine Schrittmarken, kein Logo, kein Weg zurück; die erste Slide bleibt Schritt eins.
+
+**Bereiche** (D192). «Womit startest du?» öffnet ohne Auswahl; «Weiter» wartet, und darunter steht «Wähle mindestens einen Bereich.», bis eine Welt gewählt ist.
 
 **Mind-Fragen** (D191). Der Schritt öffnet mit drei Startfragen, je einer pro Kategorie. Solange keine Frage gewählt ist, wartet «Weiter» und darunter steht «Wähl mindestens eine Frage oder nimm Mind ab.» – als Wort, nicht nur als gesperrte Schaltfläche.
 

diff --git a/docs/wp3/prompts/prompt-9-haertung.md b/docs/wp3/prompts/prompt-9-haertung.md
@@ -35,7 +35,8 @@ Die wichtigste Eigenschaft dieses Blocks: **Er fügt nichts hinzu und ändert ke
 
 - Die Blöcke «Farbregeln», 5b, «Kurve», 7A, 7B, 7C, 7D und 7E sind abgenommen; `HANDOVER.md` nennt jeden als abgenommen. (7D, der Übungskatalog mit Stichwortsuche, kam am 15.11.2026 dazu: D171. «Kurve», die Leistungskurve und die Farbstärke am Körper passend zur neuen Kennzahl, kam am selben Tag am STOP 5b dazu: D175.)
 - **Block 7E ist in `claude/momentum-wp3` zusammengeführt.** 7E lief in einer eigenen Session auf `claude/hopeful-carson-4utktp`, von `adf1ead` aus, und wird vor diesem Block in `claude/momentum-wp3` zusammengeführt (D189). Steht 7E noch nicht auf dem Branch, bau nichts: Sag Dario, dass die Zusammenführung fehlt, und halte an.
-- In `HANDOVER.md` stehen Darios Messwerte vom iPhone aus Block 7B.
+- In `HANDOVER.md` stehen Darios Messwerte vom iPhone aus Block 7B und vom 17.11.2026 (Block 7E, D192): bis zum ersten Bild 161 ms beim zweiten Öffnen, 12 Zeichenaufrufe, 50'488 Dreiecke, etwa 63 Bilder pro Sekunde.
+- In der Runde dieses Blocks prüft Dario zwei Anpassungen aus 7E mit, die keinen eigenen STOP hatten (D192): die Auftaktseite «Let’s get it started» vor der ersten Slide und «Womit startest du?» ohne Vorauswahl, «Weiter» gesperrt bis eine Welt gewählt ist. Nimm beide in die Prüfliste fürs iPhone auf.
 
 Fehlt ein Block, bau nichts. Sag Dario, welcher fehlt, und halte an. Fehlen nur die Messwerte, arbeite weiter und führ sie am Gate als offen.
 

diff --git a/CLAUDE.md b/CLAUDE.md
@@ -384,12 +384,14 @@ Never conflate them.
   in the flow follows the contract, and nothing of the four reaches a
   screen of the app: `designRules.test.ts` fails if a file outside
   `features/onboarding/` reads those tokens. A step never shows a number
-  the flow does not hold. **Mind opens with three starter questions**, one
-  per category (`STARTER_QUESTIONS`), and «Weiter» waits while none is
-  chosen. **Only a preview build replays it** (`app/preview.ts`: a
-  database of its own): Einstellungen → «Einführung ansehen» walks the
-  flow as a rehearsal that hands nothing to storage — never in the live
-  app.
+  the flow does not hold. **It begins on an opening page** — «Let’s get it
+  started» and «Weiter», no step and no marks (D192) — and **the areas open
+  with nothing chosen**, «Weiter» waiting for a world. **Mind opens with
+  three starter questions**, one per category (`STARTER_QUESTIONS`), and
+  «Weiter» waits while none is chosen. **Only a preview build replays
+  it** (`app/preview.ts`: a database of its own): Einstellungen →
+  «Einführung ansehen» walks the flow as a rehearsal that hands nothing to
+  storage — never in the live app.
 - Design tokens only (`src/styles/tokens.css`): no colour, font size, layer
   or duration is written anywhere else, and `designRules.test.ts` walks
   `src/` for one. The two exceptions are the rank badge, a fixed graphic

diff --git a/docs/wp3/stage7e/README.md b/docs/wp3/stage7e/README.md
@@ -36,6 +36,22 @@ D189) was merged into the branch first.
 the pictures of `docs/design/wp3/stage7e/` show it in that face. Those of
 STOP 7E-b are in `docs/design/wp3/stage7e-b/`.
 
+## STOP 7E-b — accepted (D192)
+
+Accepted on 17 November 2026, with two adjustments that have no STOP of
+their own — the owner checks them in the round of block 9:
+
+- **An opening page** before the first slide: very empty, «Let’s get it
+  started» in its middle and «Weiter» beneath. It is no step: no marks, no
+  brand, no way back; the first slide is still step one.
+- **The areas open with nothing chosen**; «Weiter» waits, with «Wähle
+  mindestens einen Bereich.», until a world is chosen.
+
+Then the tests, a new preview, and the branch merged into
+`claude/momentum-wp3` and pushed, so block 9 checks one state. Pictures:
+`docs/design/wp3/stage7e-b/393-0-auftakt.png` and
+`393-4a-bereiche-leer.png` beside the others of STOP 7E-b.
+
 ## STOP 7E-b — what is built after the go
 
 - **The answers**, as above (D191).
